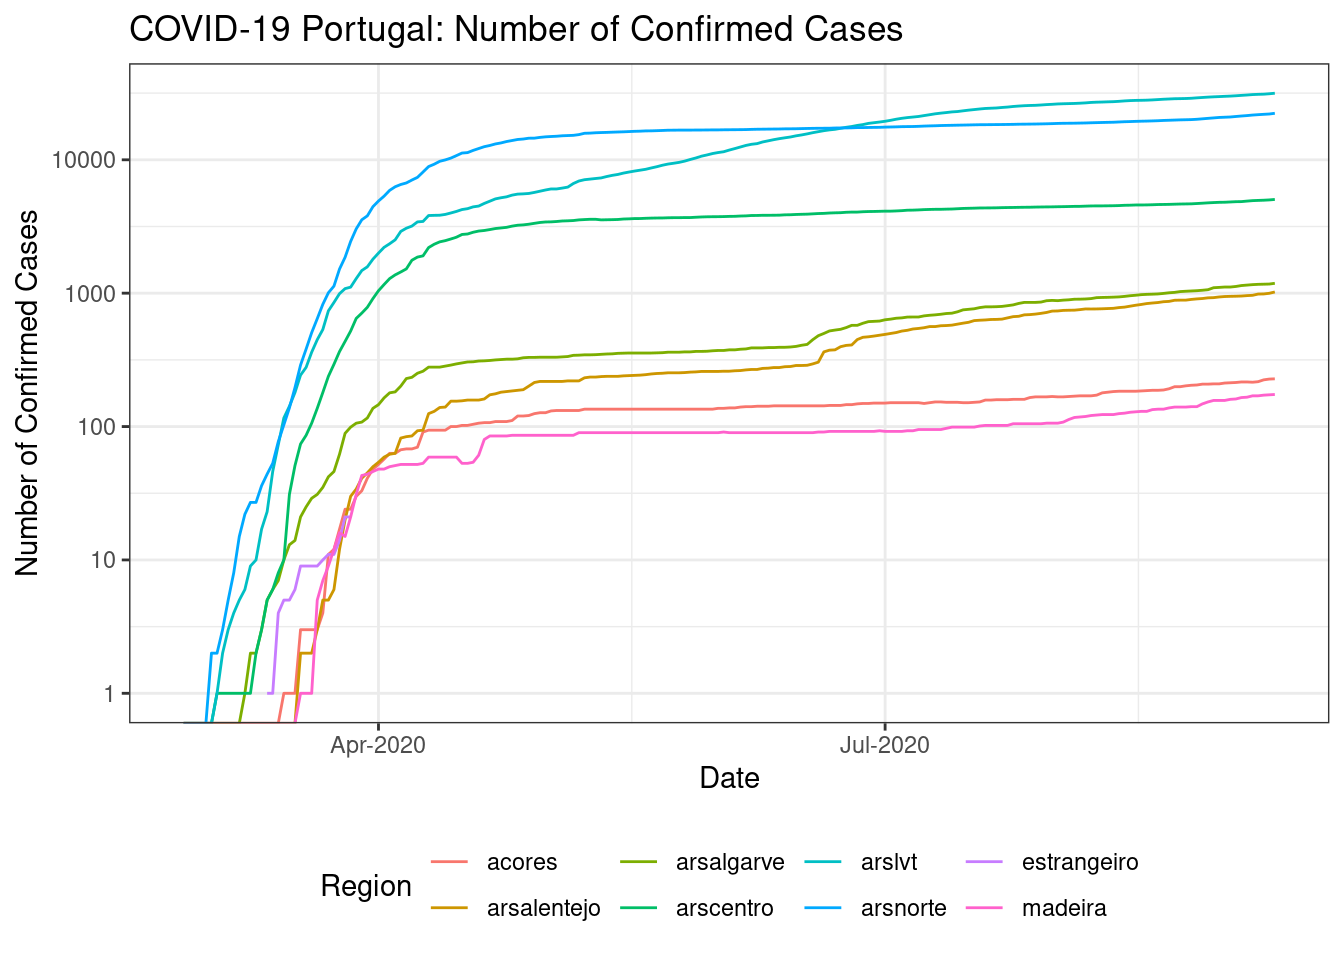
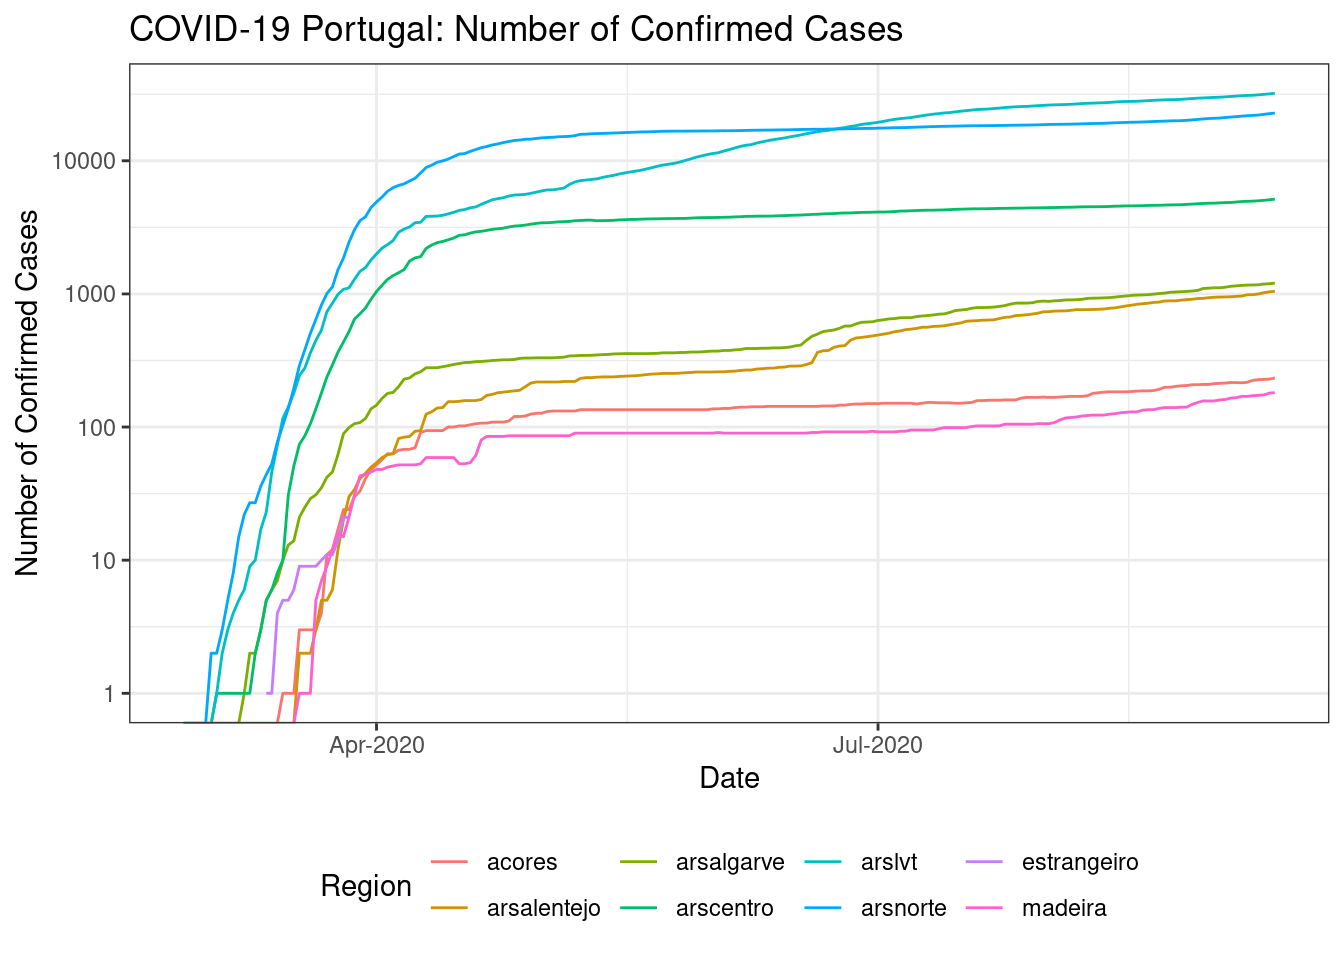
Manual update as actions failed

diff --git a/README.md b/README.md
@@ -4,9 +4,9 @@ README](https://github.com/CEAUL/Dados_COVID-19_PT/workflows/Render%20README/bad
 
 ## Daily Portuguese COVID-19 Data
 
-**Last updated: Thu 10 Sep 2020 (16:48:19 WEST \[+0100\])**
+**Last updated: Fri 11 Sep 2020 (16:34:04 WEST \[+0100\])**
 
-  - Data available from **26 Feb 2020** until **09 Sep 2020** (197
+  - Data available from **26 Feb 2020** until **11 Sep 2020** (199
     days).
 
 ### Download User Friendly Version
@@ -47,8 +47,6 @@ The original data were downloaded from an API provide by VOST
 
 |            Date | Cases\_7\_Day\_Mean |        Cases |       Active |    Recovered |    Deaths |
 | --------------: | ------------------: | -----------: | -----------: | -----------: | --------: |
-| Mon 31 Aug 2020 |               327.4 | 58012 (+244) | 14229 (+165) |  41961 (+76) | 1822 (+3) |
-| Tue 01 Sep 2020 |               333.0 | 58243 (+231) |  14315 (+86) | 42104 (+143) | 1824 (+2) |
 | Wed 02 Sep 2020 |               337.0 | 58633 (+390) | 14573 (+258) | 42233 (+129) | 1827 (+3) |
 | Thu 03 Sep 2020 |               340.0 | 59051 (+418) | 14795 (+222) | 42427 (+194) | 1829 (+2) |
 | Fri 04 Sep 2020 |               340.4 | 59457 (+406) | 15048 (+253) | 42576 (+149) | 1833 (+4) |
@@ -57,6 +55,8 @@ The original data were downloaded from an API provide by VOST
 | Mon 07 Sep 2020 |               356.4 | 60507 (+249) | 15648 (+183) |  43016 (+63) | 1843 (+3) |
 | Tue 08 Sep 2020 |               378.9 | 60895 (+388) | 15903 (+255) | 43146 (+130) | 1846 (+3) |
 | Wed 09 Sep 2020 |               415.4 | 61541 (+646) | 16408 (+505) | 43284 (+138) | 1849 (+3) |
+| Thu 10 Sep 2020 |               439.3 | 62126 (+585) | 16833 (+425) | 43441 (+157) | 1852 (+3) |
+| Fri 11 Sep 2020 |               479.4 | 62813 (+687) | 17314 (+481) | 43644 (+203) | 1855 (+3) |
 
 Change from previous day in brackets.
 
@@ -79,19 +79,19 @@ CV <- fread(here("data", "covid19pt_DSSG_Long.csv"))
 # Looking at the data:
 tail(CV)
 ##          data   origVars   origType other symptoms sex ageGrpLower ageGrpUpper
-## 1: 2020-09-04 vigilancia vigilancia                All                        
-## 2: 2020-09-05 vigilancia vigilancia                All                        
-## 3: 2020-09-06 vigilancia vigilancia                All                        
-## 4: 2020-09-07 vigilancia vigilancia                All                        
-## 5: 2020-09-08 vigilancia vigilancia                All                        
-## 6: 2020-09-09 vigilancia vigilancia                All                        
+## 1: 2020-09-06 vigilancia vigilancia                All                        
+## 2: 2020-09-07 vigilancia vigilancia                All                        
+## 3: 2020-09-08 vigilancia vigilancia                All                        
+## 4: 2020-09-09 vigilancia vigilancia                All                        
+## 5: 2020-09-10 vigilancia vigilancia                All                        
+## 6: 2020-09-11 vigilancia vigilancia                All                        
 ##    ageGrp   region value valueUnits
-## 1:        Portugal 34266      Count
-## 2:        Portugal 34201      Count
-## 3:        Portugal 34240      Count
-## 4:        Portugal 34336      Count
-## 5:        Portugal 34466      Count
-## 6:        Portugal 35151      Count
+## 1:        Portugal 34240      Count
+## 2:        Portugal 34336      Count
+## 3:        Portugal 34466      Count
+## 4:        Portugal 35151      Count
+## 5:        Portugal 35181      Count
+## 6:        Portugal 35712      Count
 
 # Order data by original variable name and date.
 setkeyv(CV, c("origVars", "data"))
@@ -141,7 +141,7 @@ CV[origType=="confirmados" & ageGrp=="" & region!="Portugal"] %>%
     y = "Number of Confirmed Cases",
     colour = "Region")
 ## Warning: Transformation introduced infinite values in continuous y-axis
-## Warning: Removed 181 row(s) containing missing values (geom_path).
+## Warning: Removed 183 row(s) containing missing values (geom_path).
 ```
 
 <img src="README_figs/README-casesbyRegion-1.png" width="672" />
@@ -170,9 +170,9 @@ CV[dailyChange<0 & !(origType %in% c("vigilancia", "internados"))][
 ##   4: 2020-03-24 confirmados   confirmados_40_49_f   224          -2
 ##   5: 2020-03-19 confirmados   confirmados_60_69_f    35         -14
 ##  ---                                                               
-## 219: 2020-04-04      obitos    obitos_arsalentejo     0          -1
-## 220: 2020-05-23      obitos      obitos_arscentro   230          -3
-## 221: 2020-07-03      obitos      obitos_arscentro   248          -1
-## 222: 2020-06-20      obitos              obitos_f   768          -1
-## 223: 2020-05-21 transmissao transmissao_importada   767          -3
+## 220: 2020-04-04      obitos    obitos_arsalentejo     0          -1
+## 221: 2020-05-23      obitos      obitos_arscentro   230          -3
+## 222: 2020-07-03      obitos      obitos_arscentro   248          -1
+## 223: 2020-06-20      obitos              obitos_f   768          -1
+## 224: 2020-05-21 transmissao transmissao_importada   767          -3
 ```
